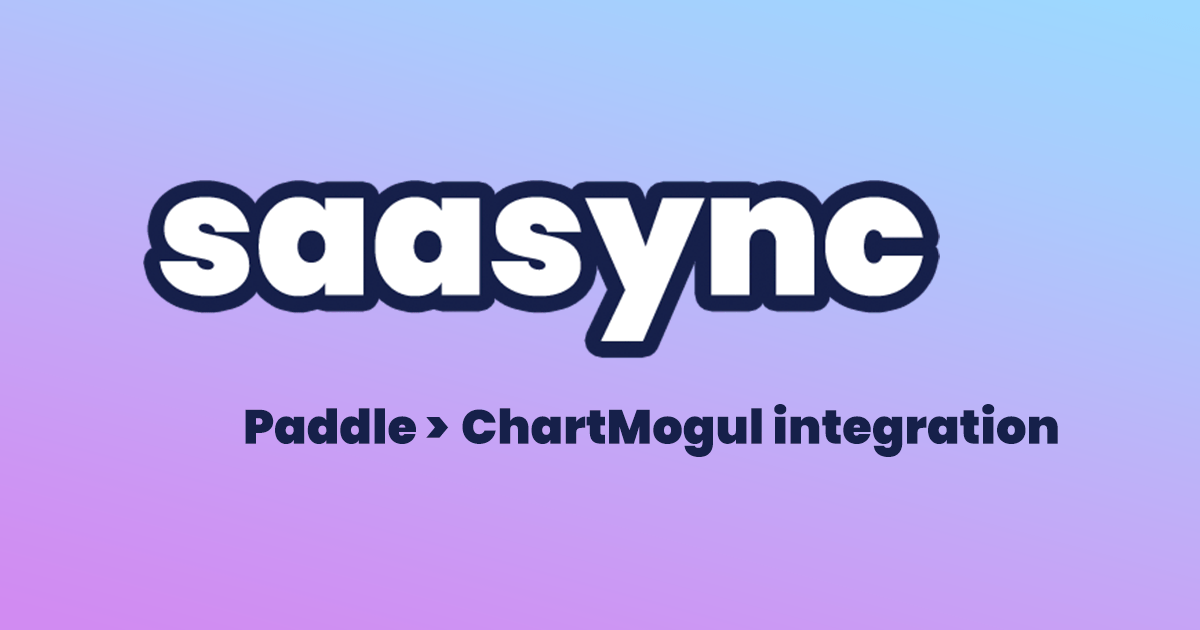
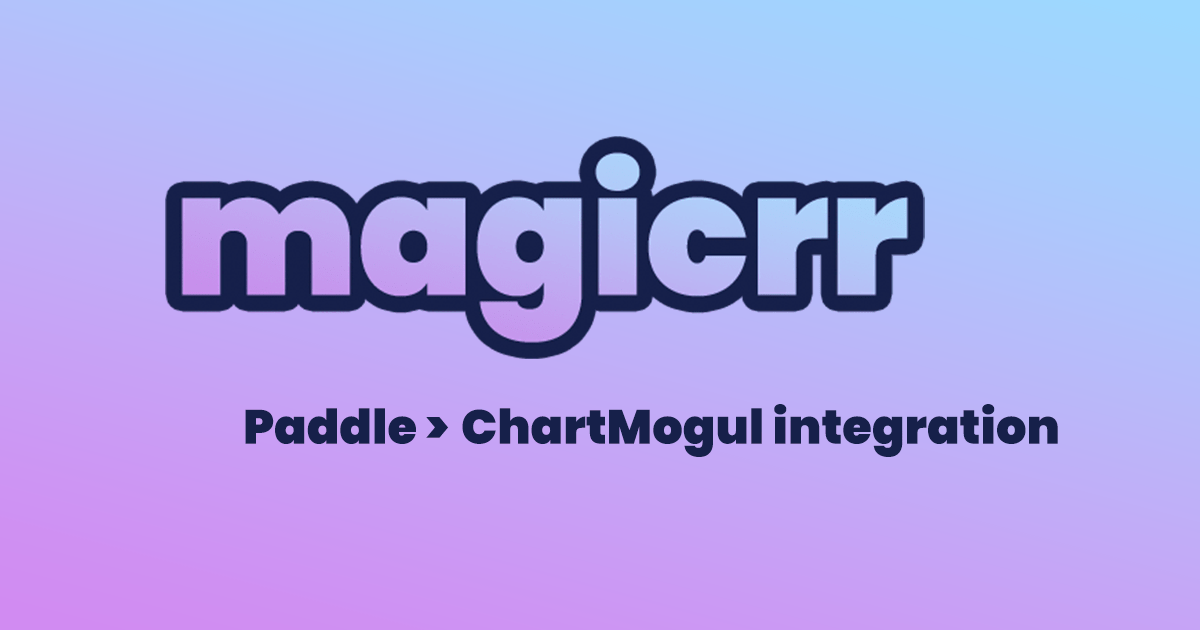
Change project name to magicrr Turns out saasync already exists

Changed region(s): [[0.1233, 0.2111, 0.8017, 0.573]]

diff --git a/src/Controller/SecurityController.php b/src/Controller/SecurityController.php
@@ -60,7 +60,7 @@ class SecurityController extends AbstractController
             $loginLinkDetails = $loginLinkHandler->createLoginLink($user);
             $notification = new CustomLoginLinkNotification(
                 $loginLinkDetails,
-                'Your saasync ✨ magic link ✨ has arrived!',
+                'Your magicrr ✨ magic link ✨ has arrived!',
             );
             // create a recipient for this user
             $recipient = new Recipient($user->getEmail());
